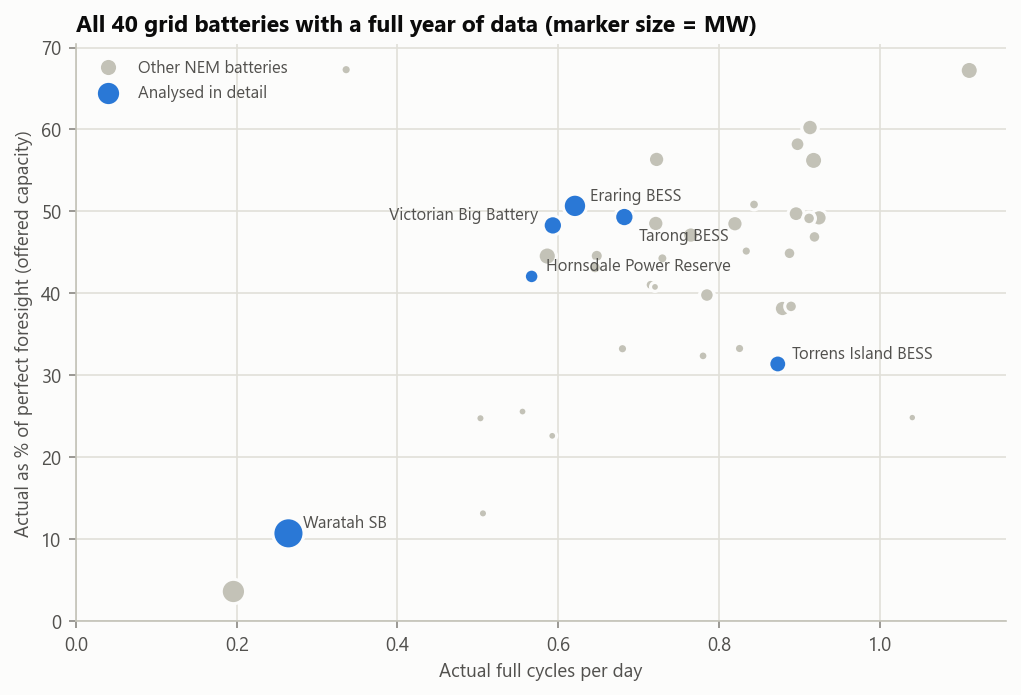
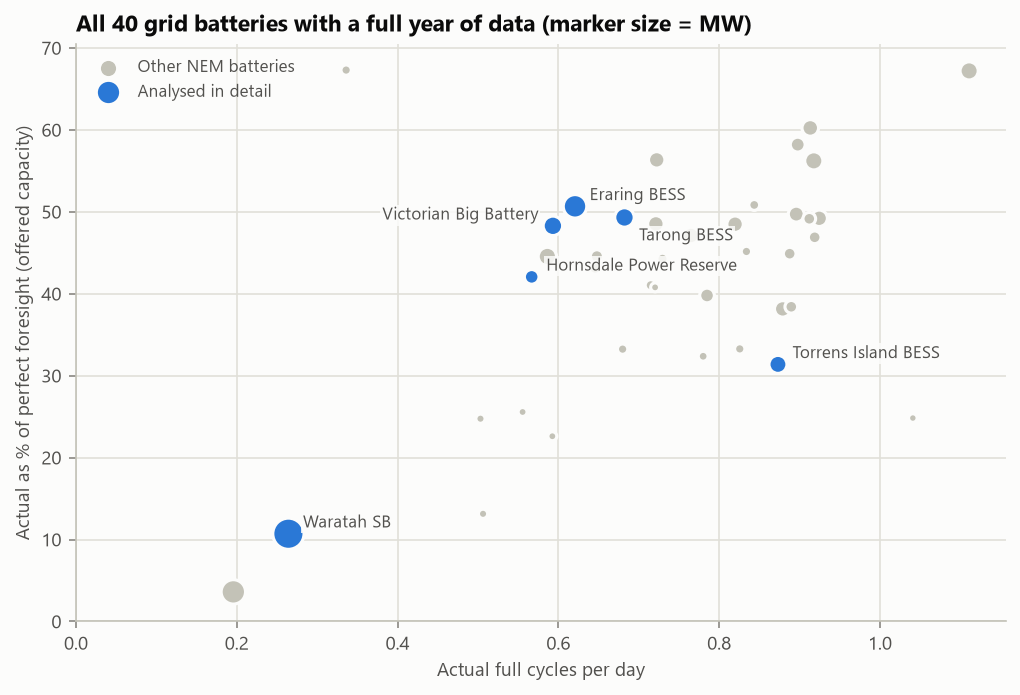
Fleet chart: battery labels on a light background above the markers
Tarong BESS and Hornsdale Power Reserve were printed over grey markers of other
batteries. Redrawn with the same function from results/fleet_summary.csv.
Layout only; results unchanged.

diff --git a/src/nem_battery/plots.py b/src/nem_battery/plots.py
@@ -169,8 +169,10 @@ def fleet_scatter(fleet: pd.DataFrame, highlight: list[str], path: Path):
     for _, r in hi.sort_values("capture_ratio", ascending=False).iterrows():
         # first candidate position (right/left, above/below the dot) whose label overlaps no earlier label
         for dx, dy, ha in ((7, 3, "left"), (7, -11, "left"), (-7, 3, "right"), (-7, -11, "right")):
+            # on a light background above the markers, so a label stays readable over a grey dot
             t = ax.annotate(_short(r["name"]), (r["cycles_per_day"], 100 * r["capture_ratio"]), xytext=(dx, dy),
-                            textcoords="offset points", ha=ha, color=INK2, fontsize=8)
+                            textcoords="offset points", ha=ha, color=INK2, fontsize=8, zorder=4,
+                            bbox=dict(facecolor=SURFACE, edgecolor="none", alpha=0.85, pad=1))
             box = t.get_window_extent(renderer)
             own = Bbox.from_extents(*ax.transData.transform((r["cycles_per_day"], 100 * r["capture_ratio"])).repeat(2))
             if not any(box.overlaps(b) and not b.contains(*own.p0) for b in placed) or ha == "right" and dy < 0:
